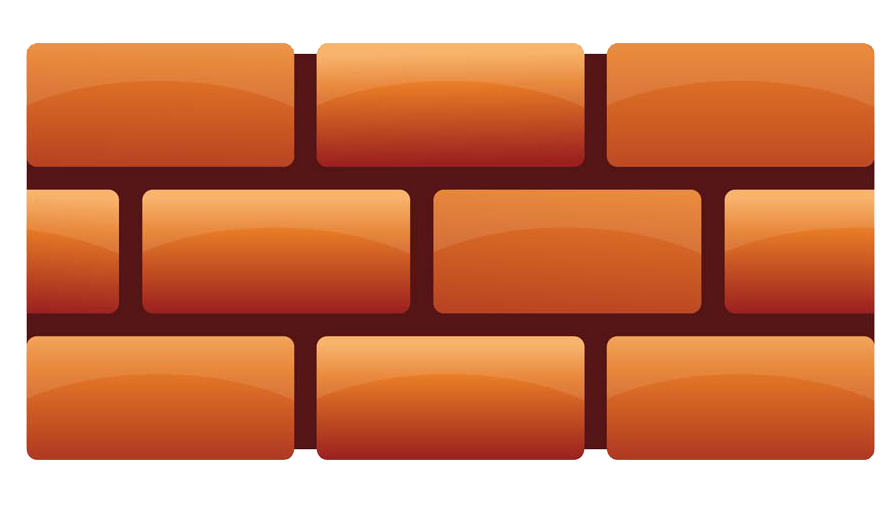
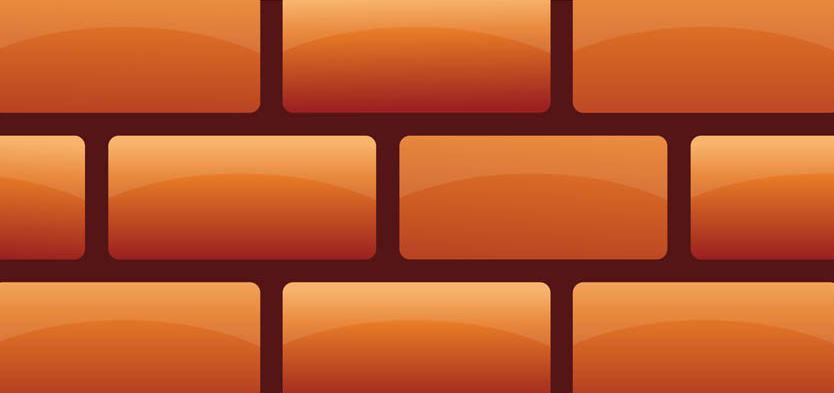
box and explosion added

diff --git a/src/windows/Game.cpp b/src/windows/Game.cpp
@@ -1,14 +1,14 @@
-//
-// Created by AIDA on 7/12/2022.
-//
-
 #include "Game.h"
 #include "../view/Wall.h"
 #include "../view/Character.h"
 #include "../view/Bomb.h"
+#include "../view/Box.h"
 #include <QKeyEvent>
 #include <QTimer>
-
+#include <iostream>
+#include "../view/Empty.h"
+#include <QRandomGenerator>
+#include "time.h"
 Game::Game(QString name1,QString name2) : QGraphicsView(){
     setFocus();
     setHorizontalScrollBarPolicy(Qt::ScrollBarAlwaysOff);
@@ -17,11 +17,9 @@ Game::Game(QString name1,QString name2) : QGraphicsView(){
 
     auto scene =new QGraphicsScene(this);
     scene->setSceneRect(0,0,width(),height());
-    scene->setBackgroundBrush(QColor(":/image/bg1"));
+    scene->setBackgroundBrush(QColor("black"));
     setScene(scene);
 
-    auto blockWidth=width()/15;
-    auto blockHeight=height()/15;
 
     for(int i=0;i<15;i++)
         for(int j=0;j<15;j++){
@@ -29,17 +27,44 @@ Game::Game(QString name1,QString name2) : QGraphicsView(){
             if(i !=0&&i !=14 && j !=0 && j !=14 &&
                     (j%2 !=0 || i%2 !=0))
                 continue;
-            auto wall =new Wall(blockWidth,blockHeight);
+            auto wall =new Wall(width(),height());
             scene->addItem(wall);
-            wall->setPos(blockWidth* i,blockHeight* j);
-
+            wall->setPos(width()/15* i,height()/15* j);
         }
+
+    srand(time(0));
+
+    for (int z = 0;z<70;z++) {
+      int i = rand()%15;
+      int j = rand()%15;
+      if (i != 0 && i != 14 && j != 0 && j != 14 &&
+          (j % 2 != 0 || i % 2 != 0) && !(i == 1 && j==1) && !(i == 1 && j==2) && !(i == 2 && j==1)
+          && !(i == 12 && j==13) && !(i == 13 && j==13) && !(i == 13 && j==12)
+          && !(i == 1 && j==3) && !(i == 3 && j==1) && !(i == 11 && j==13) && !(i == 13 && j==11)
+          ) {
+
+          auto box = new class Box(width(), height());
+          box->setPos(i * (width() / 15), j * (height() / 15));
+          scene->addItem(box);
+          if(box->checkBox())
+          {
+              delete box;
+              z--;
+          }
+      }
+      else
+      {
+          z--;
+      }
+  }
+
+
     redChar = new Character("charRed", width(), height());
-    redChar->setPos(135,75);
+    redChar->setPos(scene->width()/15,scene->height()/15);
     scene->addItem(redChar);
 
     blueChar = new Character("charBlue", width(), height());
-    blueChar->setPos(1671,939);
+    blueChar->setPos(scene->width()*13/15 ,scene->height()*13/15);
     scene->addItem(blueChar);
 
 }
@@ -66,8 +91,10 @@ void Game::keyPressEvent(QKeyEvent *event) {
     else if(event->key() == Qt::Key::Key_Space)
     {
         auto bomb = redChar->createBomb();
-        if(bomb != nullptr)
-        scene()->addItem(bomb);
+        if(bomb != nullptr){
+            connect(bomb,&Bomb::destroyed, this, &Game::bombDestroyed);
+            scene()->addItem(bomb);
+        }
     }
     //Blue Char
     if(event->key() == Qt::Key::Key_D)
@@ -90,9 +117,34 @@ void Game::keyPressEvent(QKeyEvent *event) {
     else if(event->key() == Qt::Key::Key_X)
     {
         auto bomb = blueChar->createBomb();
-        if(bomb != nullptr)
+        if(bomb != nullptr) {
+            connect(bomb, &Bomb::destroyed, this, &Game::bombDestroyed);
             scene()->addItem(bomb);
+        }
     }
 }
 
+void Game::bombDestroyed(int x , int y) {
+    auto Empty = new class Empty(x,y,width(),height());
+    Empty->setPos(x,y);
+    scene()->addItem(Empty);
+    Empty->checkBox();
+    Empty->setPos(x + (scene()->width()/15),y);
+    Empty->checkBox();
+    Empty->setPos(x - (scene()->width()/15),y);
+    Empty->checkBox();
+    Empty->setPos(x ,y - (scene()->height()/15));
+    Empty->checkBox();
+    Empty->setPos(x ,y + (scene()->height()/15));
+    Empty->checkBox();
+    Empty->setPos(x + (scene()->width()/15),y+ (scene()->height()/15));
+    Empty->checkBox();
+    Empty->setPos(x - (scene()->width()/15),y- (scene()->height()/15));
+    Empty->checkBox();
+    Empty->setPos(x + (scene()->width()/15) ,y - (scene()->height()/15));
+    Empty->checkBox();
+    Empty->setPos(x - (scene()->width()/15) ,y + (scene()->height()/15));
+    Empty->checkBox();
+    delete Empty;
+}
 

diff --git a/src/view/Character.cpp b/src/view/Character.cpp
@@ -2,42 +2,57 @@
 #include <QGraphicsItem>
 #include "../view/Wall.h"
 #include "../view/Bomb.h"
+#include "../view/Box.h"
 
 Character::Character(QString icon , int width , int height) : heigth(height), width(width) {
     QPixmap pixmap (":/images/" + icon);
-    pixmap = pixmap.scaled(width/16,height/16);
-    setPixmap(pixmap);
-}
+    pixmap = pixmap.scaled(width/15,height/15);
+        setPixmap(pixmap);
+    }
 
-bool Character::CheckWall() {
-    for(QGraphicsItem *item : collidingItems())
-    {
-        Wall *wall = dynamic_cast<Wall *>(item);
-        if(wall != nullptr)
+    bool Character::checkWallOrBox() {
+        for(QGraphicsItem *item : collidingItems())
         {
-            return true;
+            Wall *wall = dynamic_cast<Wall *>(item);
+            Box *box = dynamic_cast<Box *>(item);
+            if(wall != nullptr || box != nullptr)
+            {
+                return true;
+            }
+            return false;
         }
     }
-}
 
-void Character::moveChar(int x, int y) {
-    int tempX = this->x();
-    int tempY = this->y();
-    setPos(x,y);
-    if(CheckWall()) {
-        setPos(tempX, tempY);
+    bool Character::chechCharacter() {
+        for(QGraphicsItem *item : collidingItems())
+        {
+            Character *character = dynamic_cast<Character *>(item);
+            if(character != nullptr)
+            {
+                return true;
+            }
+            return false;
+        }
     }
-}
 
-Bomb * Character::createBomb() {
-    if(bombCreated == 0)
-    {
-        bomb = new Bomb(x(), y(), heigth, width);
-        bombCreated++;
-        return bomb;
+    void Character::moveChar(int x, int y) {
+        int tempX = this->x();
+        int tempY = this->y();
+        setPos(x,y);
+        if(checkWallOrBox() || chechCharacter()) {
+            setPos(tempX, tempY);
+        }
     }
-    else if(!bomb->isActived) {
-        bomb = new Bomb(x(), y(), heigth, width);
+
+    Bomb * Character::createBomb() {
+        if(bombCreated == 0)
+        {
+            bomb = new Bomb(x(), y(), heigth, width);
+            bombCreated++;
+            return bomb;
+        }
+        else if(!bomb->isActived) {
+            bomb = new Bomb(x(), y(), heigth, width);
         bombCreated++;
         return bomb;
     }

diff --git a/src/view/Empty.cpp b/src/view/Empty.cpp
@@ -1,19 +1,24 @@
+#include "Empty.h"
 #include "Box.h"
-Box::Box(int width,int height) : QGraphicsPixmapItem(){
 
-    QPixmap pixmap(":/images/box");
+Empty::Empty(int x , int y ,int width,int height) : QGraphicsPixmapItem(){
+
+    QPixmap pixmap(":/images/empty");
     pixmap=pixmap.scaled(width/15,height/15);
     setPixmap(pixmap);
 }
 
-bool Box::checkBox() {
+bool Empty::checkBox() {
     for(QGraphicsItem *item : collidingItems())
     {
         Box *box = dynamic_cast<Box *>(item);
         if(box != nullptr)
         {
+            delete box;
             return true;
         }
         return false;
     }
 }
+
+

diff --git a/src/view/Bomb.cpp b/src/view/Bomb.cpp
@@ -2,9 +2,9 @@
 #include <QTimer>
 Bomb::Bomb(int x,int y,int height , int width) : x(x) , height(height) , width(width) , y(y) {
     QPixmap pixmap (":/images/bomb");
-    pixmap = pixmap.scaled(width/30,height/20+5);
+    pixmap = pixmap.scaled(width/15,height/15);
     setPixmap(pixmap);
-    setPos(x+30,y);
+    setPos(x,y);
     Timer();
 }
 
@@ -17,6 +17,7 @@ void Bomb::Timer() {
 }
 void Bomb::explosion() {
     isActived = false;
+    emit destroyed(x,y);
     delete timer;
     delete this;
 }

diff --git a/src/windows/Game.h b/src/windows/Game.h
@@ -3,14 +3,14 @@
 #include <QGraphicsView>
 #include "../view/Character.h"
 
-
 class Game : public QGraphicsView{
 private:
     Character * redChar;
     Character * blueChar;
 public:
     Game(QString name1,QString name2);
-
+public slots:
+    void bombDestroyed(int x , int y);
 protected:
     void keyPressEvent(QKeyEvent *event) override;
 };

diff --git a/src/view/Empty.h b/src/view/Empty.h
@@ -1,0 +1,15 @@
+#ifndef PLAYWITHFIRE_EMPTY_H
+#define PLAYWITHFIRE_EMPTY_H
+#include <QGraphicsPixmapItem>
+
+
+class Empty : public QGraphicsPixmapItem{
+public:
+    Empty(int x , int y ,int width,int height);
+    bool checkBox();
+
+
+};
+
+
+#endif //PLAYWITHFIRE_EMPTY_H

diff --git a/src/view/Bomb.h b/src/view/Bomb.h
@@ -5,7 +5,7 @@
 
 
 class Bomb : public QObject, public QGraphicsPixmapItem{
-    Q_OBJECT
+Q_OBJECT
 private:
     int x{};
     int y{};
@@ -18,6 +18,8 @@ public:
     void Timer();
 public slots:
     void explosion();
+signals:
+    void destroyed(int x,int y);
 };
 
 

diff --git a/src/view/Character.h b/src/view/Character.h
@@ -12,7 +12,8 @@ private:
     Bomb * bomb{nullptr};
 public:
     Character(QString icon, int width , int height);
-    bool CheckWall();
+    bool checkWallOrBox();
+    bool chechCharacter();
     void moveChar(int x , int y);
     Bomb * createBomb();
 };

diff --git a/src/windows/Home.h b/src/windows/Home.h
@@ -3,12 +3,11 @@
 #include <QGraphicsView>
 #include "../view/TextField.h"
 
-class Home :public QGraphicsView{
+class Home : public QGraphicsView{
 Q_OBJECT
 private:
     TextField *textField1;
     TextField *textField2;
-
 public:
   Home();
 

diff --git a/src/view/Wall.cpp b/src/view/Wall.cpp
@@ -2,6 +2,6 @@
 
 Wall::Wall(int width,int height) : QGraphicsPixmapItem(){
     QPixmap pixmap(":/images/wall");
-    pixmap=pixmap.scaled(width,height);
+    pixmap=pixmap.scaled(width/15,height/15);
     setPixmap(pixmap);
 }

diff --git a/src/view/Box.h b/src/view/Box.h
@@ -7,6 +7,7 @@ class Box : public QGraphicsPixmapItem{
 
 public:
     Box(int width,int height);
+    bool checkBox();
 };
 
 
